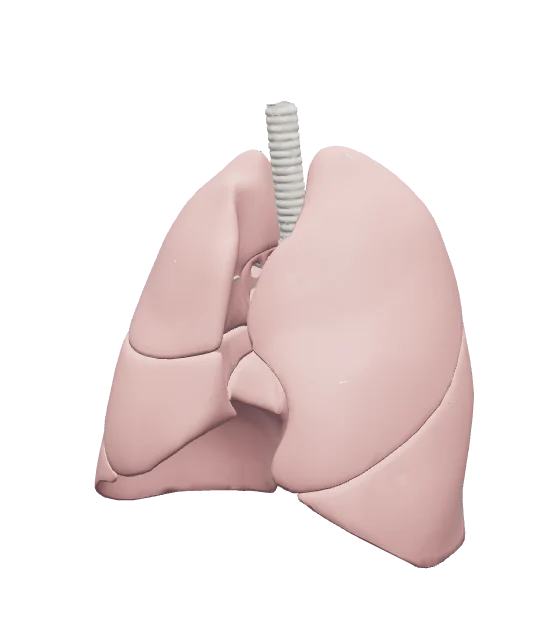
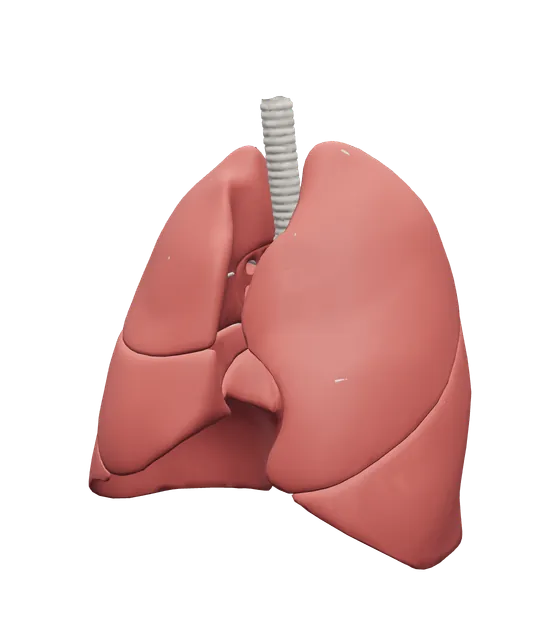
Hero: lungs and kidneys re-rendered with richer colour (2026-10-22)
The Respiratory card's lungs came out chalky pink and the kidneys had a
bright, washed-out patch along their tops. Both come from the shared
tissue palette, so the explorer showed the same thing.

- Lung tissue #d39a95 -> #c4655f (roughness 0.6): rosy instead of pale
- Kidney tissue #7a3429 -> #73291f, roughness 0.4 -> 0.72: the overhead
  studio light no longer bleaches the top of the kidney
- Re-rendered respiratory.webp, urinary.webp and decor-kidney.webp
- New npm run build:hero (landing-src/scripts/render-hero.mjs and
  render/hero.html) draws the stills in headless Chromium with the
  explorer's own renderer, lights and tissue looks; the lungs shot hides
  the pleura, epiglottis and nasal mucosa as before
- Cache version of anatomy-layers-core.js bumped on the explorer and
  games pages

Tests: 84 unit tests and the syntax check pass.

diff --git a/landing-src/render/hero.html b/landing-src/render/hero.html
@@ -1,0 +1,119 @@
+<!DOCTYPE html>
+<!-- Render harness for scripts/render-hero.mjs. It draws layer models with the explorer's own renderer
+     settings, studio environment, lights and tissue looks (assets/js/model-viewer.js), on a transparent
+     background, so the hero stills match what the explorer shows. -->
+<html lang="en">
+<head>
+<meta charset="UTF-8">
+<title>Hero renders</title>
+<style>html, body { margin: 0; background: transparent; } canvas { display: block; }</style>
+<script src="../../assets/vendor/three/three.min.js"></script>
+<script src="../../assets/vendor/three/GLTFLoader.js"></script>
+<script src="../../assets/vendor/three/DRACOLoader.js"></script>
+<script src="../../assets/js/anatomy-layers-core.js"></script>
+<script src="../../assets/js/model-viewer.js"></script>
+</head>
+<body>
+<canvas id="stage"></canvas>
+<script>
+'use strict';
+const canvas = document.getElementById('stage');
+const renderer = new THREE.WebGLRenderer({canvas, antialias: true, alpha: true, preserveDrawingBuffer: true});
+renderer.setPixelRatio(1);
+renderer.setClearColor(0x000000, 0);
+renderer.outputEncoding = THREE.sRGBEncoding;
+renderer.toneMapping = THREE.ACESFilmicToneMapping;
+renderer.toneMappingExposure = 0.6;
+
+const scene = new THREE.Scene();
+scene.environment = AnatomyViewer.studioEnvironment.call({renderer});
+scene.add(new THREE.HemisphereLight(0xffffff, 0x536077, 0.4));
+const light = new THREE.DirectionalLight(0xffffff, 1.0); light.position.set(4, 8, 6); scene.add(light);
+const camera = new THREE.PerspectiveCamera(30, 1, 0.01, 1000);
+
+const draco = new THREE.DRACOLoader(); draco.setDecoderPath('../../assets/vendor/three/draco/');
+const loader = new THREE.GLTFLoader(); loader.setDRACOLoader(draco);
+const layers = new Map();
+
+function loadLayer(system) {
+    if (!layers.has(system)) {
+        layers.set(system, new Promise((resolve, reject) => loader.load(`../../system_model/layers/${system}.glb`, gltf => {
+            AnatomyViewer.applySystemLooks(gltf.scene, system);
+            scene.add(gltf.scene);
+            gltf.scene.updateMatrixWorld(true);
+            resolve(gltf.scene);
+        }, undefined, reject)));
+    }
+    return layers.get(system);
+}
+
+// Shows only the parts the shot asks for: `only` keeps the named parts, `hide` drops them.
+function choose(root, {only, hide}) {
+    root.traverse(node => {
+        const name = node.userData && node.userData.part_id ? node.userData.name : null;
+        if (!name) return;
+        node.visible = only ? only.includes(name) : !(hide || []).includes(name);
+    });
+}
+
+function visiblePoints(root) {
+    const points = [], v = new THREE.Vector3();
+    root.traverseVisible(node => {
+        if (!node.isMesh) return;
+        const position = node.geometry.attributes.position;
+        const step = Math.max(1, Math.floor(position.count / 4000));
+        for (let i = 0; i < position.count; i += step) points.push(v.fromBufferAttribute(position, i).applyMatrix4(node.matrixWorld).clone());
+    });
+    return points;
+}
+
+// Places the camera on the shot's yaw and pitch, then moves the target and distance until the visible
+// parts fill the frame inside the shot's margins (fractions of the image).
+function frame(points, {yaw, pitch, fov, margin}) {
+    const y = THREE.MathUtils.degToRad(yaw), p = THREE.MathUtils.degToRad(pitch);
+    const dir = new THREE.Vector3(Math.sin(y) * Math.cos(p), Math.sin(p), Math.cos(y) * Math.cos(p));
+    const box = new THREE.Box3().setFromPoints(points);
+    const target = box.getCenter(new THREE.Vector3());
+    let distance = box.getSize(new THREE.Vector3()).length() * 2;
+    camera.fov = fov; camera.updateProjectionMatrix();
+    const want = {left: -1 + 2 * margin.side, right: 1 - 2 * margin.side, bottom: -1 + 2 * margin.bottom, top: 1 - 2 * margin.top};
+    const ndc = new THREE.Vector3();
+    for (let pass = 0; pass < 12; pass++) {
+        camera.position.copy(target).addScaledVector(dir, distance);
+        camera.lookAt(target); camera.updateMatrixWorld(true);
+        let left = Infinity, right = -Infinity, bottom = Infinity, top = -Infinity;
+        for (const point of points) {
+            ndc.copy(point).project(camera);
+            left = Math.min(left, ndc.x); right = Math.max(right, ndc.x); bottom = Math.min(bottom, ndc.y); top = Math.max(top, ndc.y);
+        }
+        const scale = Math.max((right - left) / (want.right - want.left), (top - bottom) / (want.top - want.bottom));
+        const halfHeight = distance * Math.tan(THREE.MathUtils.degToRad(fov / 2));
+        const shiftX = ((left + right) - (want.left + want.right)) / 2 * halfHeight * camera.aspect;
+        const shiftY = ((bottom + top) - (want.bottom + want.top)) / 2 * halfHeight;
+        const xAxis = new THREE.Vector3().setFromMatrixColumn(camera.matrixWorld, 0);
+        const yAxis = new THREE.Vector3().setFromMatrixColumn(camera.matrixWorld, 1);
+        target.addScaledVector(xAxis, shiftX).addScaledVector(yAxis, shiftY);
+        distance *= scale;
+    }
+    camera.position.copy(target).addScaledVector(dir, distance);
+    camera.lookAt(target);
+    camera.near = distance / 100; camera.far = distance * 10; camera.updateProjectionMatrix();
+}
+
+async function renderShot(shot, width, height) {
+    for (const root of await Promise.all([...layers.values()])) root.visible = false;
+    const root = await loadLayer(shot.system);
+    root.visible = true;
+    choose(root, shot);
+    renderer.setSize(width, height, false);
+    camera.aspect = width / height;
+    frame(visiblePoints(root), {fov: 30, ...shot});
+    renderer.render(scene, camera);
+    return canvas.toDataURL('image/png');
+}
+
+window.harness = {renderShot};
+window.harnessReady = true;
+</script>
+</body>
+</html>

diff --git a/assets/js/anatomy-layers-core.js b/assets/js/anatomy-layers-core.js
@@ -102,8 +102,8 @@ const AnatomyLayersCore = (() => {
         liver: tissue('#7a3026', 0.4), gallbladder: tissue('#506b3a', 0.35), pancreas: tissue('#dcb28a', 0.5),
         gland: tissue('#c98b70', 0.5), thyroid: tissue('#9c4a3b', 0.45), adrenal: tissue('#d0a04c', 0.5),
         spleen: tissue('#6c2a37', 0.45), lymph: tissue('#c99e88', 0.5), thymus: tissue('#d6b49c', 0.5),
-        lung: tissue('#d39a95', 0.55), bronchi: tissue('#ded5c8', 0.4), pleura: tissue('#e3d6cf', 0.35),
-        kidney: tissue('#7a3429', 0.4), bladder: tissue('#d2a090', 0.45), duct: tissue('#d8c5a6', 0.45),
+        lung: tissue('#c4655f', 0.6), bronchi: tissue('#ded5c8', 0.4), pleura: tissue('#e3d6cf', 0.35),
+        kidney: tissue('#73291f', 0.72), bladder: tissue('#d2a090', 0.45), duct: tissue('#d8c5a6', 0.45),
         peritoneum: tissue('#e0c07e', 0.45), testis: tissue('#e0cdc1', 0.45), erectile: tissue('#b06a6c', 0.45),
         uterus: tissue('#c58a7d', 0.45), cervix: tissue('#d3a197', 0.4), ovary: tissue('#e2c8ba', 0.5), tube: tissue('#d39589', 0.4),
         fascia: tissue('#e0d9cd', 0.45)

diff --git a/student/games.html b/student/games.html
@@ -113,7 +113,7 @@ Auth.requireAuthSync('student');
 <script src="../assets/vendor/three/OrbitControls.js"></script>
 <script src="../assets/vendor/three/GLTFLoader.js"></script>
 <script src="../assets/vendor/three/DRACOLoader.js"></script>
-<script src="../assets/js/anatomy-layers-core.js?v=20261011-female1"></script>
+<script src="../assets/js/anatomy-layers-core.js?v=20261022-tissue1"></script>
 <script src="../assets/js/model-viewer.js?v=20261016-stage3"></script>
 <script type="module" src="../assets/js/games/student-page.js?v=20261020-games1"></script>
 <script src="../assets/js/site-config.js"></script>

diff --git a/student/anatomy.html b/student/anatomy.html
@@ -101,7 +101,7 @@
 <script src="../assets/js/app.js?v=20261019-acct1"></script>
 <script src="../assets/js/student-portal.js?v=20261019-acct1"></script>
 <script src="../assets/js/anatomy.js"></script>
-<script src="../assets/js/anatomy-layers-core.js?v=20261011-female1"></script>
+<script src="../assets/js/anatomy-layers-core.js?v=20261022-tissue1"></script>
 <script src="../assets/js/model-viewer.js?v=20261016-stage3"></script>
 <script type="module" src="../assets/js/explorer/main.js?v=20261014-school1"></script>
 <script src="../assets/js/site-config.js"></script>

diff --git a/teacher/anatomy.html b/teacher/anatomy.html
@@ -99,7 +99,7 @@
 
 <script src="../assets/js/app.js?v=20261019-acct1"></script>
 <script src="../assets/js/anatomy.js"></script>
-<script src="../assets/js/anatomy-layers-core.js?v=20261011-female1"></script>
+<script src="../assets/js/anatomy-layers-core.js?v=20261022-tissue1"></script>
 <script src="../assets/js/model-viewer.js?v=20261009-za1"></script>
 <script type="module" src="../assets/js/explorer/main.js?v=20261014-school1"></script>
 <script src="../assets/js/site-config.js"></script>

diff --git a/README.md b/README.md
@@ -100,7 +100,7 @@ Password recovery is teacher-managed. The public recovery form shows the configu
 
 The landing page shows only real information. The number of active body systems comes from `api/config.php` and stay hidden when the API returns nothing or is unreachable. The feature figures are simplified drawings of the real student pages with generic labels.
 
-The hero shows a fan of body-system cards (click a side card, use the arrow keys, swipe or type in the header search to bring one to the front; hovering lifts a card). The card and floating images in `assets/img/hero/` are still renders of the layered models in `system_model/layers/`, made with the explorer's own viewer and materials on a transparent background, so no 3D loads on the landing page. The two reproductive systems are left out of the hero. Re-render the images if those models change.
+The hero shows a fan of body-system cards (click a side card, use the arrow keys, swipe or type in the header search to bring one to the front; hovering lifts a card). The card and floating images in `assets/img/hero/` are still renders of the layered models in `system_model/layers/`, made with the explorer's own viewer and materials on a transparent background, so no 3D loads on the landing page. The two reproductive systems are left out of the hero. Re-render the images if those models or the tissue colours change: `npm run build:hero` in `landing-src/` redraws the Respiratory and Urinary cards and the floating kidney through `landing-src/render/hero.html` (pass shot names to redraw only some, or `--out <folder>` to compare first).
 
 ### Building the public pages
 
@@ -113,6 +113,7 @@ npm run watch:css        # rebuild on save while editing index.html or login.htm
 npm run check:contrast   # checks every colour pair in the design tokens
 npm run build:assets     # hero poster (AVIF/WebP/PNG), brand mark and favicons from uploads/images/
 npm run build:og         # assets/brand/og-image.jpg, rendered in Chromium
+npm run build:hero       # hero stills in assets/img/hero/ from the layer models, rendered in Chromium
 ~~~
 
 Design tokens live in the `@theme` block of `landing-src/src/public.css`; Tailwind's default palette, radii, shadows and type sizes are cleared so only those tokens exist. Fonts (Instrument Serif, Plus Jakarta Sans, JetBrains Mono, and Bungee for the landing headings) are self-hosted in `assets/fonts/` under the SIL Open Font License. `landing-src/node_modules/` is ignored by Git. Advance the `?v=20261005-landing1` query on the public pages' assets when you change them.
